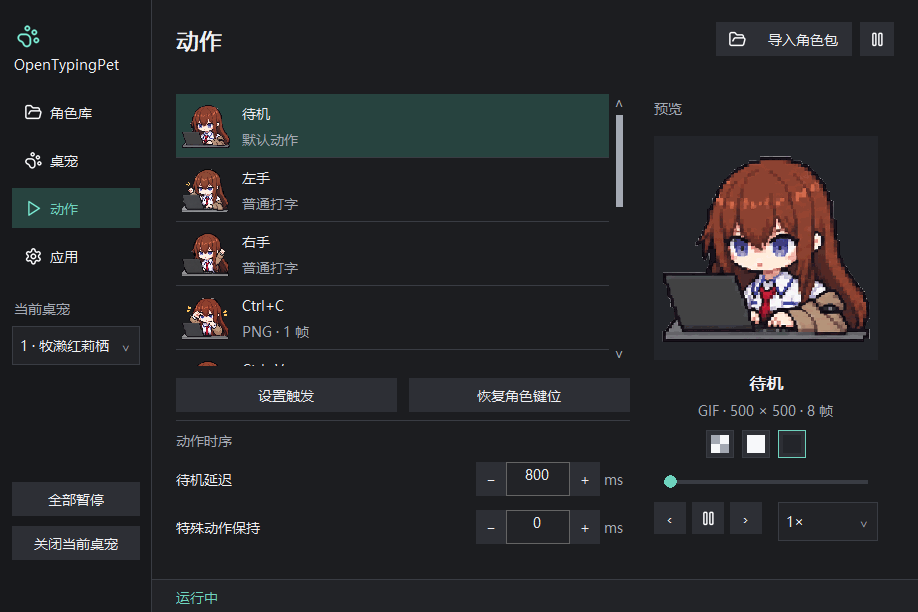
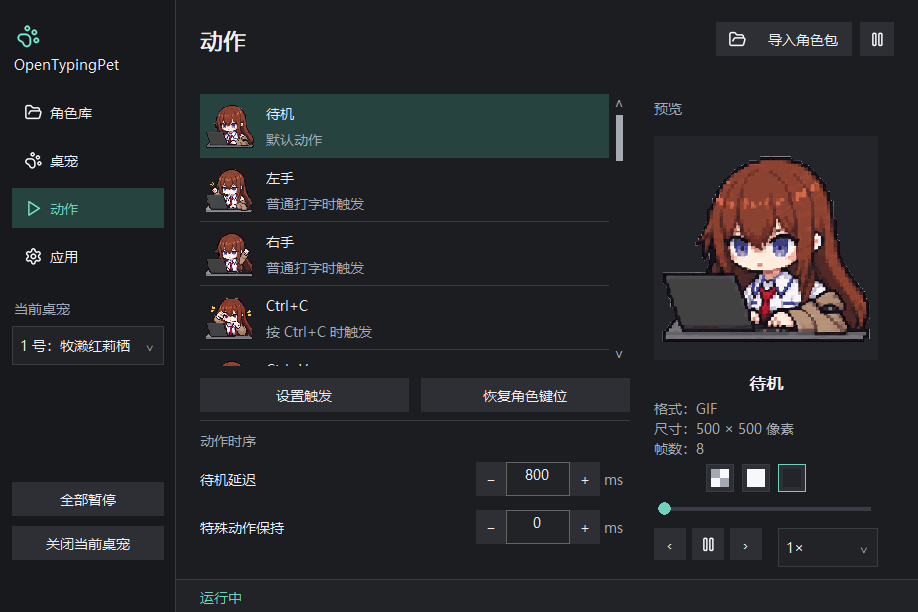
fix: 明确界面文案并调整信息排版

diff --git a/src/appController.cpp b/src/appController.cpp
@@ -85,6 +85,7 @@ enum : unsigned {
 constexpr UINT Imported = WM_APP + 1, TrayEvent = WM_APP + 2, RemovePetMessage = WM_APP + 5;
 constexpr UINT_PTR AnimationTimer = 1, EnvironmentTimer = 2, EnvironmentDebounceTimer = 3;
 constexpr unsigned SelectPetMenu = 2000;
+constexpr int SidebarWidth = 176;
 Gdiplus::Color color(COLORREF value, BYTE alpha = 255) {
   return Gdiplus::Color(alpha, GetRValue(value), GetGValue(value),
                         GetBValue(value));
@@ -110,6 +111,24 @@ void setControlText(HWND window, const std::wstring &value) {
   GetWindowTextW(window, current.data(), length + 1);
   current.resize(size_t(length));
   if (current != value) SetWindowTextW(window, value.c_str());
+}
+std::wstring describeTrigger(const InputRule &rule) {
+  if (rule.event == InputEventType::Typing) return L"普通打字";
+  std::wstring key;
+  switch (rule.key) {
+  case VK_LBUTTON: key = L"鼠标左键"; break;
+  case VK_RBUTTON: key = L"鼠标右键"; break;
+  case VK_MBUTTON: key = L"鼠标中键"; break;
+  case VK_XBUTTON1: key = L"鼠标侧键 1"; break;
+  case VK_XBUTTON2: key = L"鼠标侧键 2"; break;
+  default: key = Storage::wide(inputKeyName(rule.key)); break;
+  }
+  const auto combination = std::wstring(rule.ctrl ? L"Ctrl+" : L"") +
+      (rule.shift ? L"Shift+" : L"") + (rule.alt ? L"Alt+" : L"") + key;
+  if (rule.modifierTap) return L"单独按下并松开 " + combination;
+  if (rule.event == InputEventType::KeyUp || rule.event == InputEventType::MouseUp)
+    return L"松开 " + combination;
+  return L"按 " + combination;
 }
 std::shared_ptr<Gdiplus::Bitmap> resourceImage(HINSTANCE instance, int id) {
   const auto resource =
@@ -295,7 +314,7 @@ void AppController::layout() {
   RECT rect{};
   GetClientRect(m_settingsWindow, &rect);
   const int w = MulDiv(rect.right, 96, m_dpi), h = MulDiv(rect.bottom, 96, m_dpi);
-  const int left = 176, right = w - 288, span = right - left, preview = w - 264;
+  const int left = SidebarWidth + 24, right = w - 288, span = right - left, preview = w - 264;
   auto place = [&](unsigned id, int x, int y, int width, int height) {
     const RECT bounds{px(x), px(y), px(x + width), px(y + height)};
     const auto previous = m_controlBounds.find(id);
@@ -307,10 +326,10 @@ void AppController::layout() {
   place(Open, w - 202, 22, 136, 34);
   place(Pause, w - 58, 22, 34, 34);
   const unsigned tabs[] = {TabLibrary, TabPet, TabActions, TabApp};
-  for (int i = 0; i < 4; ++i) place(tabs[i], 12, 92 + i * 48, 128, 40);
-  place(PetSelector, 12, 326, 128, 200);
-  place(PauseAll, 12, h - 130, 128, 34);
-  place(ClosePet, 12, h - 86, 128, 34);
+  for (int i = 0; i < 4; ++i) place(tabs[i], 12, 92 + i * 48, SidebarWidth - 24, 40);
+  place(PetSelector, 12, 326, SidebarWidth - 24, 200);
+  place(PauseAll, 12, h - 130, SidebarWidth - 24, 34);
+  place(ClosePet, 12, h - 86, SidebarWidth - 24, 34);
   const int half = (span - 12) / 2;
   place(Topmost, left, 132, half, 34);
   place(Visible, left + half + 12, 132, half, 34);
@@ -346,12 +365,12 @@ void AppController::layout() {
   place(HideFullscreen, left, 418, w - left - 24, 34);
   place(FullscreenExceptions, left, 466, 132, 34);
   for (int i = 0; i < 3; ++i)
-    place(PreviewChecker + i, preview + 52 + i * 36, 430, 28, 28);
-  place(PreviewTimeline, preview, 466, 224, 28);
-  place(PreviewPrevious, preview, 502, 32, 32);
-  place(PreviewPlay, preview + 38, 502, 32, 32);
-  place(PreviewNext, preview + 76, 502, 32, 32);
-  place(PreviewSpeed, preview + 124, 502, 100, 180);
+    place(PreviewChecker + i, preview + 52 + i * 36, 464, 28, 28);
+  place(PreviewTimeline, preview, 498, 224, 24);
+  place(PreviewPrevious, preview, 528, 32, 32);
+  place(PreviewPlay, preview + 38, 528, 32, 32);
+  place(PreviewNext, preview + 76, 528, 32, 32);
+  place(PreviewSpeed, preview + 124, 528, 100, 180);
   place(LibraryList, left, 94, span, h - 218);
   if (SendMessageW(m_controls[LibraryList], LB_GETITEMHEIGHT, 0, 0) != px(72))
     SendMessageW(m_controls[LibraryList], LB_SETITEMHEIGHT, 0, px(72));
@@ -427,7 +446,7 @@ void AppController::syncControls(unsigned changed) {
       InvalidateRect(window, nullptr, FALSE);
   updateControlVisibility();
   m_syncing = false;
-  RECT content{}; GetClientRect(m_settingsWindow, &content); content.left = px(152);
+  RECT content{}; GetClientRect(m_settingsWindow, &content); content.left = px(SidebarWidth);
   if (changed) content.top = content.bottom - px(32);
   InvalidateRect(m_settingsWindow, &content, FALSE);
 }
@@ -515,15 +534,15 @@ void AppController::paintSettings(HDC dc) {
   RECT client{};
   GetClientRect(m_settingsWindow, &client);
   const int w = client.right, h = client.bottom;
-  const int left = px(176), right = w - px(288);
+  const int left = px(SidebarWidth + 24), right = w - px(288);
   fill(dc, client, m_colors.window);
-  fill(dc, {0, 0, px(152), h}, m_colors.panel);
-  fill(dc, {px(151), 0, px(152), h}, m_colors.border);
-  fill(dc, {px(152), h - px(32), w, h}, m_colors.base);
-  fill(dc, {px(152), h - px(33), w, h - px(32)}, m_colors.border);
+  fill(dc, {0, 0, px(SidebarWidth), h}, m_colors.panel);
+  fill(dc, {px(SidebarWidth - 1), 0, px(SidebarWidth), h}, m_colors.border);
+  fill(dc, {px(SidebarWidth), h - px(32), w, h}, m_colors.base);
+  fill(dc, {px(SidebarWidth), h - px(33), w, h - px(32)}, m_colors.border);
   Gdiplus::Graphics graphics(dc);
   icon(graphics, PNG_PAW, {px(16), px(24), px(24), px(24)}, m_colors.accent);
-  text(dc, L"OpenTypingPet", {px(14), px(52), px(142), px(76)}, m_font, m_colors.text);
+  text(dc, L"OpenTypingPet", {px(14), px(52), px(SidebarWidth - 10), px(76)}, m_font, m_colors.text);
   const wchar_t *titles[] = {L"桌宠", L"动作", L"应用", L"角色库"};
   text(dc, titles[m_tab], {left, px(20), w - px(220), px(60)}, m_titleFont, m_colors.text);
   const auto character = engine().character();
@@ -553,20 +572,25 @@ void AppController::paintSettings(HDC dc) {
     text(dc, L"启动", {left, px(166), w - px(24), px(194)}, m_font, m_colors.muted);
     fill(dc, {left, px(290), w - px(24), px(291)}, m_colors.border);
     text(dc, L"自动暂停", {left, px(298), w - px(24), px(326)}, m_font, m_colors.muted);
-    text(dc, L"OpenTypingPet 0.1.0 · KaffuAlcaid · GPLv3", {left, px(518), w - px(24), px(546)}, m_font, m_colors.muted);
+    const int detailsColumn = left + (w - px(24) - left) / 2;
+    text(dc, L"OpenTypingPet 0.1.0", {left, px(512), w - px(24), px(536)}, m_font, m_colors.text);
+    text(dc, L"作者：KaffuAlcaid", {left, px(536), detailsColumn - px(12), px(560)}, m_font, m_colors.muted);
+    text(dc, L"许可证：GPL-3.0-only", {detailsColumn, px(536), w - px(24), px(560)}, m_font, m_colors.muted);
   } else if (m_selectedLibrary >= 0 && size_t(m_selectedLibrary) < m_library->entries.size()) {
     auto &entry = m_library->entries[m_selectedLibrary];
     const int preview = w - px(264);
     if (const auto thumbnail = m_library->thumbnail(entry)) graphics.DrawImage(thumbnail.get(), preview + px(48), px(104), px(128), px(128));
     text(dc, entry.name, {preview, px(244), w - px(40), px(280)}, m_headingFont, m_colors.text);
-    text(dc, std::to_wstring(entry.actionCount) + L" 个动作 · " + std::to_wstring((entry.bytes + 1023) / 1024) + L" KB",
-         {preview, px(284), w - px(40), px(314)}, m_font, m_colors.muted);
+    text(dc, L"动作数量：" + std::to_wstring(entry.actionCount),
+         {preview, px(284), w - px(40), px(308)}, m_font, m_colors.muted);
+    text(dc, L"角色包大小：" + std::to_wstring((entry.bytes + 1023) / 1024) + L" KiB",
+         {preview, px(308), w - px(40), px(332)}, m_font, m_colors.muted);
     text(dc, entry.currentHash == entry.sourceHash ? L"原始角色包" : L"已编辑",
-         {preview, px(320), w - px(40), px(348)}, m_font, m_colors.muted);
+         {preview, px(338), w - px(40), px(362)}, m_font, m_colors.muted);
   } else if (m_tab == 3) {
     text(dc, L"角色库为空", {left, px(106), right, px(142)}, m_headingFont, m_colors.muted);
   }
-  text(dc, L"当前桌宠", {px(14), px(294), px(140), px(322)}, m_font, m_colors.muted);
+  text(dc, L"当前桌宠", {px(14), px(294), px(SidebarWidth - 12), px(322)}, m_font, m_colors.muted);
   if (m_tab == 0 || m_tab == 1)
     paintPreview(dc);
   const std::wstring status = m_busy ? L"正在导入" : !m_error.empty() ? m_error : currentPet().paused() ? L"已暂停" : character ? L"运行中" : L"就绪";
@@ -605,10 +629,11 @@ void AppController::paintPreview(HDC dc) {
             clip, m_tab == 1 ? m_previewFrame : currentPet().frame(), petSettings().smooth);
   text(dc, character->actions[action].label, {left, px(368), right, px(398)},
        m_headingFont, m_colors.text, DT_CENTER | DT_VCENTER | DT_SINGLELINE | DT_END_ELLIPSIS);
-  const auto info = clip.format + L" · " + std::to_wstring(clip.width) + L" × " +
-                    std::to_wstring(clip.height) + L" · " + std::to_wstring(clip.frames.size()) + L" 帧";
-  text(dc, info, {left, px(398), right, px(422)}, m_font, m_colors.muted,
-       DT_CENTER | DT_VCENTER | DT_SINGLELINE | DT_END_ELLIPSIS);
+  text(dc, L"格式：" + clip.format, {left, px(398), right, px(418)}, m_font, m_colors.muted);
+  text(dc, L"尺寸：" + std::to_wstring(clip.width) + L" × " + std::to_wstring(clip.height) + L" 像素",
+       {left, px(418), right, px(438)}, m_font, m_colors.muted);
+  text(dc, L"帧数：" + std::to_wstring(clip.frames.size()),
+       {left, px(438), right, px(458)}, m_font, m_colors.muted);
 }
 void AppController::invalidatePreview() {
   RECT rect{};
@@ -755,13 +780,13 @@ void AppController::paintAction(const DRAWITEMSTRUCT &draw) {
   std::wstring trigger;
   for (const auto &rule : character->rules)
     if (std::find(rule.actions.begin(), rule.actions.end(), action.id) != rule.actions.end()) {
-      if (!trigger.empty()) trigger += L" · ";
-      trigger += rule.label;
+      if (!trigger.empty()) trigger += L" 或";
+      trigger += describeTrigger(rule);
     }
   if (trigger.empty())
     trigger = action.id == character->defaultAction ? L"默认动作" : L"动作结束后触发";
-  else if (trigger == action.label)
-    trigger = clip.format + L" · " + std::to_wstring(clip.frames.size()) + L" 帧";
+  else
+    trigger += trigger.back() < 128 ? L" 时触发" : L"时触发";
   label.top = draw.rcItem.top + px(32);
   label.bottom = draw.rcItem.bottom - px(5);
   text(draw.hDC, trigger, label, m_font, m_colors.muted);
@@ -974,7 +999,7 @@ void AppController::refreshInstances() {
   SendMessageW(m_controls[PetSelector], CB_RESETCONTENT, 0, 0);
   for (size_t i = 0; i < m_pets.size(); ++i) {
     const auto *entry = m_library->find(m_pets[i]->record.libraryId);
-    const auto label = std::to_wstring(i + 1) + L" · " + (entry ? entry->name : L"尚未选择角色");
+    const auto label = std::to_wstring(i + 1) + L" 号：" + (entry ? entry->name : L"尚未选择角色");
     SendMessageW(m_controls[PetSelector], CB_ADDSTRING, 0, reinterpret_cast<LPARAM>(label.c_str()));
   }
   SendMessageW(m_controls[PetSelector], CB_SETCURSEL, m_activePet, 0);
@@ -982,7 +1007,7 @@ void AppController::refreshInstances() {
   int selected = 0;
   const auto &monitors = m_environment.monitors();
   for (size_t i = 0; i < monitors.size(); ++i) {
-    const auto label = std::to_wstring(i + 1) + L" · " + monitors[i].name;
+    const auto label = L"显示器 " + std::to_wstring(i + 1) + L"（" + monitors[i].name + L"）";
     SendMessageW(m_controls[MonitorSelector], CB_ADDSTRING, 0, reinterpret_cast<LPARAM>(label.c_str()));
     if (monitors[i].id == currentPet().record.placement.monitor) selected = int(i);
   }
@@ -1013,20 +1038,20 @@ void AppController::paintLibraryEntry(const DRAWITEMSTRUCT &draw) {
   text(draw.hDC, entry.name, label, m_font, m_colors.text);
   const auto count = std::count_if(m_pets.begin(), m_pets.end(), [&](const auto &pet) { return pet->record.libraryId == entry.libraryId; });
   label.top += px(28); label.bottom += px(28);
-  text(draw.hDC, std::to_wstring(entry.actionCount) + L" 个动作" + (count ? L" · 桌面 " + std::to_wstring(count) + L" 个" : L""),
+  text(draw.hDC, std::to_wstring(entry.actionCount) + L" 个动作" + (count ? L"，已添加 " + std::to_wstring(count) + L" 个桌宠" : L""),
        label, m_font, m_colors.muted);
 }
 void AppController::showDiagnostics() {
   std::wstring details;
   for (const auto &issue : m_diagnostics) {
     if (!details.empty()) details += L"\r\n\r\n";
-    details += issue.file;
-    if (issue.line) details += L" · 第 " + std::to_wstring(issue.line) + L" 行，第 " + std::to_wstring(issue.column) + L" 列";
+    details += L"文件：" + issue.file;
+    if (issue.line) details += L"\r\n位置：第 " + std::to_wstring(issue.line) + L" 行，第 " + std::to_wstring(issue.column) + L" 列";
     if (!issue.field.empty()) details += L"\r\n字段：" + issue.field;
     details += L"\r\n" + issue.message;
   }
   if (details.empty()) details = m_error;
-  if (m_failedImport) details = L"文件：" + m_failedImport->path + L"\r\n\r\n" + details;
+  if (m_failedImport) details = L"角色包：" + m_failedImport->path + L"\r\n\r\n" + details;
   showDetails(m_settingsWindow, L"问题详情", details, m_colors);
 }
 void AppController::editCharacter() {
@@ -1305,7 +1330,7 @@ HMENU AppController::createMenu() {
   if (m_pets.size() > 1) {
     for (size_t i = 0; i < m_pets.size(); ++i) {
       const auto *entry = m_library->find(m_pets[i]->record.libraryId);
-      m_menuItems.push_back({SelectPetMenu + unsigned(i), std::to_wstring(i + 1) + L" · " + (entry ? entry->name : L"桌宠"), 0, i == m_activePet});
+      m_menuItems.push_back({SelectPetMenu + unsigned(i), std::to_wstring(i + 1) + L" 号：" + (entry ? entry->name : L"桌宠"), 0, i == m_activePet});
     }
     m_menuItems.push_back({0, L""});
   }
@@ -1513,7 +1538,7 @@ void AppController::command(unsigned id, unsigned notification) {
     } else
       m_error = L"无法更新登录启动设置。";
     InvalidateRect(m_controls[id], nullptr, FALSE);
-    RECT footer{}; GetClientRect(m_settingsWindow, &footer); footer.left = px(152); footer.top = footer.bottom - px(32);
+    RECT footer{}; GetClientRect(m_settingsWindow, &footer); footer.left = px(SidebarWidth); footer.top = footer.bottom - px(32);
     InvalidateRect(m_settingsWindow, &footer, FALSE);
     return;
   }

diff --git a/src/characterEditor.cpp b/src/characterEditor.cpp
@@ -321,7 +321,15 @@ public:
       SetBkMode(dc,TRANSPARENT);SetTextColor(dc,self->colors.text);SelectObject(dc,self->font);
       auto text=[&](std::wstring value,RECT rect,UINT flags=DT_LEFT|DT_VCENTER|DT_SINGLELINE|DT_END_ELLIPSIS){DrawTextW(dc,value.c_str(),int(value.size()),&rect,flags);};
       if(self->page==0){text(L"角色名称",{self->px(20),self->px(90),self->px(280),self->px(120)});text(Storage::wide(self->state.document.value("name",std::string())),{self->px(20),self->px(126),self->px(280),self->px(162)});text(L"角色标识",{self->px(20),self->px(186),self->px(280),self->px(218)});text(Storage::wide(self->state.document.value("id",std::string())),{self->px(20),self->px(222),self->px(280),self->px(264)});text(L"画布："+std::to_wstring(self->state.document["canvas"].value("width",500))+L" × "+std::to_wstring(self->state.document["canvas"].value("height",500)),{self->px(20),self->px(292),self->px(280),self->px(332)});}
-      if(self->preview&&!self->preview->clips.empty()){Gdiplus::Graphics graphics(dc);const auto &clip=self->preview->clips[self->clipIndex];paintAnimationFrame(graphics,{self->px(310),self->px(126),area.right-self->px(350),area.bottom-self->px(320)},clip,self->frame,true);text(L"第 "+std::to_wstring(self->frame+1)+L" / "+std::to_wstring(clip.frames.size())+L" 帧 · "+std::to_wstring(clip.frames[self->frame].delay)+L" ms",{self->px(310),area.bottom-self->px(184),area.right-self->px(30),area.bottom-self->px(154)},DT_CENTER|DT_VCENTER|DT_SINGLELINE);}
+      if(self->preview&&!self->preview->clips.empty()){
+        const auto &clip=self->preview->clips[self->clipIndex];
+        {Gdiplus::Graphics graphics(dc);paintAnimationFrame(graphics,{self->px(310),self->px(126),area.right-self->px(350),area.bottom-self->px(320)},clip,self->frame,true);}
+        const int middle=self->px(310)+(area.right-self->px(350))/2;
+        text(L"第 "+std::to_wstring(self->frame+1)+L" 帧，共 "+std::to_wstring(clip.frames.size())+L" 帧",
+             {self->px(310),area.bottom-self->px(184),middle-self->px(8),area.bottom-self->px(154)});
+        text(L"本帧时长："+std::to_wstring(clip.frames[self->frame].delay)+L" 毫秒",
+             {middle+self->px(8),area.bottom-self->px(184),area.right-self->px(30),area.bottom-self->px(154)},DT_RIGHT|DT_VCENTER|DT_SINGLELINE|DT_END_ELLIPSIS);
+      }
       SetTextColor(dc,self->colors.muted);text(self->message.empty()?(self->dirty?L"有未应用的修改":L"就绪"):self->message,{self->px(20),area.bottom-self->px(32),area.right-self->px(20),area.bottom});if(message==WM_PAINT)EndPaint(window,&paint);return 0;}
     case WM_DRAWITEM:{const auto &draw=*reinterpret_cast<DRAWITEMSTRUCT*>(lParam);RECT rect=draw.rcItem;const bool selected=(draw.itemState&ODS_SELECTED)||(draw.CtlID>=PageRole&&draw.CtlID<=PageRules&&draw.CtlID-PageRole==unsigned(self->page));HBRUSH fill=CreateSolidBrush(selected?self->colors.selection:self->colors.button);FillRect(draw.hDC,&rect,fill);DeleteObject(fill);SelectObject(draw.hDC,self->font);SetBkMode(draw.hDC,TRANSPARENT);SetTextColor(draw.hDC,draw.itemState&ODS_DISABLED?self->colors.muted:self->colors.text);wchar_t label[256]{};
       if(draw.CtlType==ODT_LISTBOX){if(draw.itemID==UINT(-1))return TRUE;SendMessageW(draw.hwndItem,LB_GETTEXT,draw.itemID,reinterpret_cast<LPARAM>(label));rect.left+=self->px(10);}

diff --git a/src/nativeDialogs.cpp b/src/nativeDialogs.cpp
@@ -81,7 +81,7 @@ struct Dialog {
     const auto list = GetDlgItem(window, 5000); SendMessageW(list, LB_RESETCONTENT, 0, 0);
     for (size_t i = 0; i < sequence.size(); ++i) {
       const auto found = std::find(fields[0].choiceValues.begin(), fields[0].choiceValues.end(), sequence[i]);
-      const auto label = std::to_wstring(i + 1) + L" · " + (found == fields[0].choiceValues.end() ? sequence[i] : fields[0].choices[size_t(found - fields[0].choiceValues.begin())]);
+      const auto label = std::to_wstring(i + 1) + L". " + (found == fields[0].choiceValues.end() ? sequence[i] : fields[0].choices[size_t(found - fields[0].choiceValues.begin())]);
       SendMessageW(list, LB_ADDSTRING, 0, reinterpret_cast<LPARAM>(label.c_str()));
     }
     SendMessageW(list, LB_SETCURSEL, std::clamp(selected, 0, std::max(0, int(sequence.size()) - 1)), 0);
